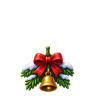
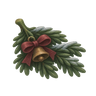
Fill board cutouts with larger matte ornaments

diff --git a/docs/review/board-frame-decorations/interior.md b/docs/review/board-frame-decorations/interior.md
@@ -3,24 +3,31 @@
 Relic Rush's jungle vine projects down and right from the inner side of its
 arch. Christmas Market's bell projects into the left opening from its left
 wall, and the frosted pinecone enters the right opening from its right wall.
+The matte foliage spans most of the visible hex, with subdued greens, bronze
+and red against the brighter playing pieces.
 The open-top chamber uses larger diagonal fir sprigs on its inner walls.
 
-| Board | Before | Diagonal side mounts |
+Before on the left, after on the right. Relic Rush is above Christmas Market.
+
+![Close-ups of the larger, muted cutout ornaments](cutout-detail.jpg)
+
+| Board | Before | Larger matte ornaments |
 | --- | --- | --- |
-| Relic Rush level 6, 480×900 | ![Vine centred below the arch](relic-480-inner.jpg) | ![Diagonal vine on the inner left wall](relic-480-diagonal.jpg) |
-| Relic Rush level 6, 390×844 | ![Vine centred below the arch at the smaller size](relic-390-inner.jpg) | ![Diagonal vine at the smaller size](relic-390-diagonal.jpg) |
-| Christmas Market level 4, 480×900 | ![Ornaments centred below the openings](christmas-480-inner.jpg) | ![Bell and pinecone projecting diagonally from the sides](christmas-480-diagonal.jpg) |
-| Christmas Market level 4, 390×844 | ![Ornaments centred below the openings at the smaller size](christmas-390-inner.jpg) | ![Side-mounted ornaments at the smaller size](christmas-390-diagonal.jpg) |
+| Relic Rush level 6, 480×900 | ![Earlier Relic Rush vine](relic-480-shadow.jpg) | ![Larger matte vine](relic-480-cutout.jpg) |
+| Relic Rush level 6, 390×844 | ![Earlier vine at the smaller size](relic-390-shadow.jpg) | ![Larger matte vine at the smaller size](relic-390-cutout.jpg) |
+| Christmas Market level 4, 480×900 | ![Earlier bell and pinecone](christmas-480-shadow.jpg) | ![Larger matte bell and pinecone](christmas-480-cutout.jpg) |
+| Christmas Market level 4, 390×844 | ![Earlier bell and pinecone at the smaller size](christmas-390-shadow.jpg) | ![Larger matte ornaments at the smaller size](christmas-390-cutout.jpg) |
 | Christmas Market level 7, 390×844 | ![Open channel before inner trim](christmas-open-before.jpg) | ![Fir sprigs inside the open channel](christmas-open-inner.jpg) |
 
-The three hanging variants were generated together with the built-in ImageGen
-tool using the existing [outer artwork](../../../engine/art/board-frame/decorations-source.png)
-and the two earlier board captures. Their stems attach at the centre of each
-registered 96×96 RGBA sprite. The renderer seats the stem on the inner stone
-and turns the artwork 48° into the opening. The source registration crops and
-scales the paintings and trims stray matte alpha around the painted silhouette.
-[Hanging source atlas](../../../engine/art/board-frame/hanging-source.png) ·
-[Prompt](../../../engine/art/board-frame/hanging.prompt.txt) ·
+The three ornaments were painted together with the built-in ImageGen tool
+using the [earlier ornament artwork](../../../engine/art/board-frame/hanging-source.png),
+the canonical flat-top hex and the earlier Christmas Market board capture.
+Each separate 96×96 RGBA sprite is centred on an empty hex and drawn at the
+hex's full coordinate width. The source art places the stem on its upper
+diagonal side. Registration crops and uniformly scales the paintings and
+trims stray matte alpha around the silhouette.
+[Cutout source atlas](../../../engine/art/board-frame/cutout-source.png) ·
+[Prompt](../../../engine/art/board-frame/cutout.prompt.txt) ·
 [Crop and anchor settings](../../../engine/art/board-frame/decorations.json)
 
 The atlas exports stay separate from the stone. Christmas Market's snow uses
@@ -30,6 +37,8 @@ channels. The inner channel floor uses the bare stone slot.
 ```sh
 python3 tools/board_frame_decor.py
 python3 tools/board_frame_decor.py --check
+python3 tools/hex_tile_art.py games/relic-rush/data/board-frame/hanging-vine.png \
+  games/christmas-market/data/board-frame/hanging-{bell,pinecone}.png --mode object --strict
 build/test/all --suite=relic-rush --suite=christmas-market \
   "shot dressing-shore" "shot main-character-board" "shot phone-board" "shot designed-chambers"
 ```

diff --git a/games/relic-rush/docs/asset-catalogue.md b/games/relic-rush/docs/asset-catalogue.md
@@ -422,11 +422,10 @@ previous frame's bands, seeded grain and cracks with
 from the shared [ImageGen source](../../../engine/art/board-frame/decorations-source.png).
 Its centred stem anchors to three outward tips on the settled board. The
 renderer turns it towards the outside and varies its size by corner.
-`data/board-frame/hanging-vine.png` is the larger interior variant. Its stem
-attaches to the left wall of a cutout and the leaves extend diagonally inward.
-The painting is in the [hanging source atlas](../../../engine/art/board-frame/hanging-source.png).
-Rebuild both
-separate sprites with `python3 tools/board_frame_decor.py --game relic-rush`.
+`data/board-frame/hanging-vine.png` is the matte interior vine. Its stem
+attaches to the left wall and the foliage spans most of the visible empty hex.
+The diagonal pose is painted in the [cutout source atlas](../../../engine/art/board-frame/cutout-source.png).
+Rebuild both separate sprites with `python3 tools/board_frame_decor.py --game relic-rush`.
 [Paint guide, prompt and level 6 at both phone sizes](../../../docs/review/board-frame-decorations/interior.md).
 
 The painted [limestone and cobalt atlas](../art/board-refresh/flat-ground.png)

diff --git a/docs/MATCH3_ENGINE.md b/docs/MATCH3_ENGINE.md
@@ -167,10 +167,10 @@ The soft shadow follows the settled outline. The renderer grows the union
 of the active hexes to the rim, shifts it down and draws one signed-distance
 mask. Equal distances from that shifted outline get the same opacity. The
 mask is cached with the frame layout and follows board shake and resize.
-The skin can place small sprites
-on outward tips and larger ones on the inner side of an opening. The renderer
-uses the outline to find the side mounts and turns the sprites diagonally into
-the opening. An open-top channel can use larger sprigs on its inward tips.
+The skin can place small sprites on outward tips and larger ones in the first
+empty hex below the rim of an opening. These sprites are registered to that
+hex with the diagonal side mount painted into the artwork. An open-top channel
+can use larger sprigs on its inward tips.
 An optional atlas slot adds snow to the highest horizontal north edges of the
 outer rim. Inner channel edges use bare stone.
 Imported and neutral boards use the default ground geometry.

diff --git a/games/christmas-market/docs/asset-catalogue.md b/games/christmas-market/docs/asset-catalogue.md
@@ -367,9 +367,10 @@ The settled board has four separate paintable sprites under `data/board-frame/`.
 `fir-ribbon` and `fir-pinecone` sit at the outer shoulders at small scale.
 They also decorate the walls of the open-top chamber at larger scale.
 `hanging-bell` and `hanging-pinecone` project diagonally from the inner
-sides of enclosed cutouts at a larger size than the outer trim.
+sides of enclosed cutouts and fill most of the visible empty hex with matte
+fir, muted berries and a bronze bell.
 Rebuild them from the [outer source](../../../engine/art/board-frame/decorations-source.png)
-and [hanging source](../../../engine/art/board-frame/hanging-source.png) with
+and [cutout source](../../../engine/art/board-frame/cutout-source.png) with
 `python3 tools/board_frame_decor.py --game christmas-market`.
 [Paint guide, prompt and phone captures](../../../docs/review/board-frame-decorations/interior.md).
 
